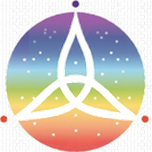
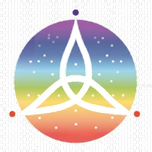
fix: regenerar iconos PWA desde imagen WhatsApp y validar cualquier/maskable
- Aplanar los iconos “any” sobre fondo blanco (RGB sin alpha).
- Mantener los iconos “maskable” en RGBA con padding suave.
- Añadir scripts/generate_icons.py para regeneración repetible y verificable.
- Verificar que manifest.json coincide con los archivos reales.

🤖 Generated with Codebuff

diff --git a/scripts/generate_icons.py b/scripts/generate_icons.py
@@ -1,0 +1,133 @@
+#!/usr/bin/env python3
+"""
+Genera los iconos PWA del sitio a partir de la imagen de WhatsApp adjunta.
+
+Política de iconos:
+- "any"  -> fondo blanco, sin transparencia (mejor compatibilidad con lanzadores).
+- "maskable" -> conserva canal alfa (sirve para iconos que se recortan en la plataforma).
+
+Fuente: imagen adjunta con fondo blanco.
+Proceso:
+1. Cargar imagen a RGBA.
+2. Píxeles "blancos" (R,G,B >= 250) -> hacer transparentes.
+3. Cada tamaño:
+   - Redimensionar a T x T.
+   - Centrar sobre canvas square transparente.
+   - "any": aplanar sobre fondo blanco (RGB).
+   - "maskable": mantener RGBA.
+"""
+
+import os
+import sys
+from pathlib import Path
+
+import numpy as np
+from PIL import Image
+
+# Configuración del proyecto
+REPO_ROOT = Path(__file__).resolve().parent.parent
+ICONS_DIR = REPO_ROOT / "icons"
+SOURCE_IMAGE = "/home/jr/.var/app/org.telegram.desktop/data/TelegramDesktop/tdata/temp_data/photo_2026-09-05_22-43-50.jpg"
+
+ANY_SIZES = {
+    "icon-72x72.png": 72,
+    "icon-96x96.png": 96,
+    "icon-128x128.png": 128,
+    "icon-144x144.png": 144,
+    "icon-152x152.png": 152,
+    "icon-192x192.png": 192,
+    "icon-384x384.png": 384,
+    "icon-512x512.png": 512,
+}
+
+MASKABLE_SIZES = {
+    "icon-maskable-192x192.png": 192,
+    "icon-maskable-512x512.png": 512,
+}
+
+WHITE_THRESHOLD = 250
+PAD_FRACTION = 0.06  # padding suave para maskable
+
+
+def load_base_image(path: str) -> Image.Image:
+    if not os.path.exists(path):
+        raise FileNotFoundError(f"Imagen fuente no encontrada: {path}")
+    im = Image.open(path).convert("RGBA")
+    arr = np.array(im).astype(np.uint8)
+    rgb = arr[..., :3]
+    alpha = arr[..., 3].copy()
+    white = (rgb >= WHITE_THRESHOLD).all(axis=2)
+    alpha[white] = 0
+    return Image.fromarray(np.dstack([rgb, alpha]))
+
+
+def square_center(img: Image.Image, size: int) -> Image.Image:
+    im = img.resize((size, size), Image.LANCZOS)
+    W, H = im.size
+    s = max(W, H)
+    sq = Image.new("RGBA", (s, s), (0, 0, 0, 0))
+    sq.paste(im, ((s - W) // 2, (s - H) // 2))
+    return sq.resize((size, size), Image.LANCZOS)
+
+
+def make_any(img: Image.Image, size: int) -> Image.Image:
+    rgba = square_center(img, size)
+    flat = Image.new("RGB", (size, size), (255, 255, 255))
+    flat.paste(rgba, mask=rgba.split()[3])
+    return flat
+
+
+def make_maskable(img: Image.Image, size: int) -> Image.Image:
+    im = img.resize((size, size), Image.LANCZOS)
+    W, H = im.size
+    pad_x = int(W * PAD_FRACTION)
+    pad_y = int(H * PAD_FRACTION)
+    crop = im.crop((pad_x, pad_y, W - pad_x, H - pad_y))
+    s2 = max(crop.size)
+    canvas = Image.new("RGBA", (s2, s2), (0, 0, 0, 0))
+    canvas.paste(crop, ((s2 - crop.size[0]) // 2, (s2 - crop.size[1]) // 2))
+    return canvas.resize((size, size), Image.LANCZOS)
+
+
+def verify_any_opaque(path: Path) -> bool:
+    if not path.exists():
+        return False
+    a = np.array(Image.open(path))
+    if a.shape[2] != 3:
+        return False
+    return True
+
+
+def main() -> int:
+    print("fuente:", SOURCE_IMAGE)
+    base = load_base_image(SOURCE_IMAGE)
+
+    for name, size in ANY_SIZES.items():
+        path = ICONS_DIR / name
+        img = make_any(base, size)
+        img.save(path, optimize=True)
+        print(f"any  {name} -> {path}")
+
+    for name, size in MASKABLE_SIZES.items():
+        path = ICONS_DIR / name
+        img = make_maskable(base, size)
+        img.save(path, optimize=True)
+        print(f"mask {name} -> {path}")
+
+    print("\n verificando any opacos...")
+    issues = []
+    for name, size in ANY_SIZES.items():
+        path = ICONS_DIR / name
+        if not verify_any_opaque(path):
+            issues.append(name)
+
+    if issues:
+        print("ERROR any no opacos:", issues)
+        return 1
+
+    print("OK todos los any están aplanados (RGB sin alpha)")
+    return 0
+
+
+if __name__ == "__main__":
+    sys.exit(main())
